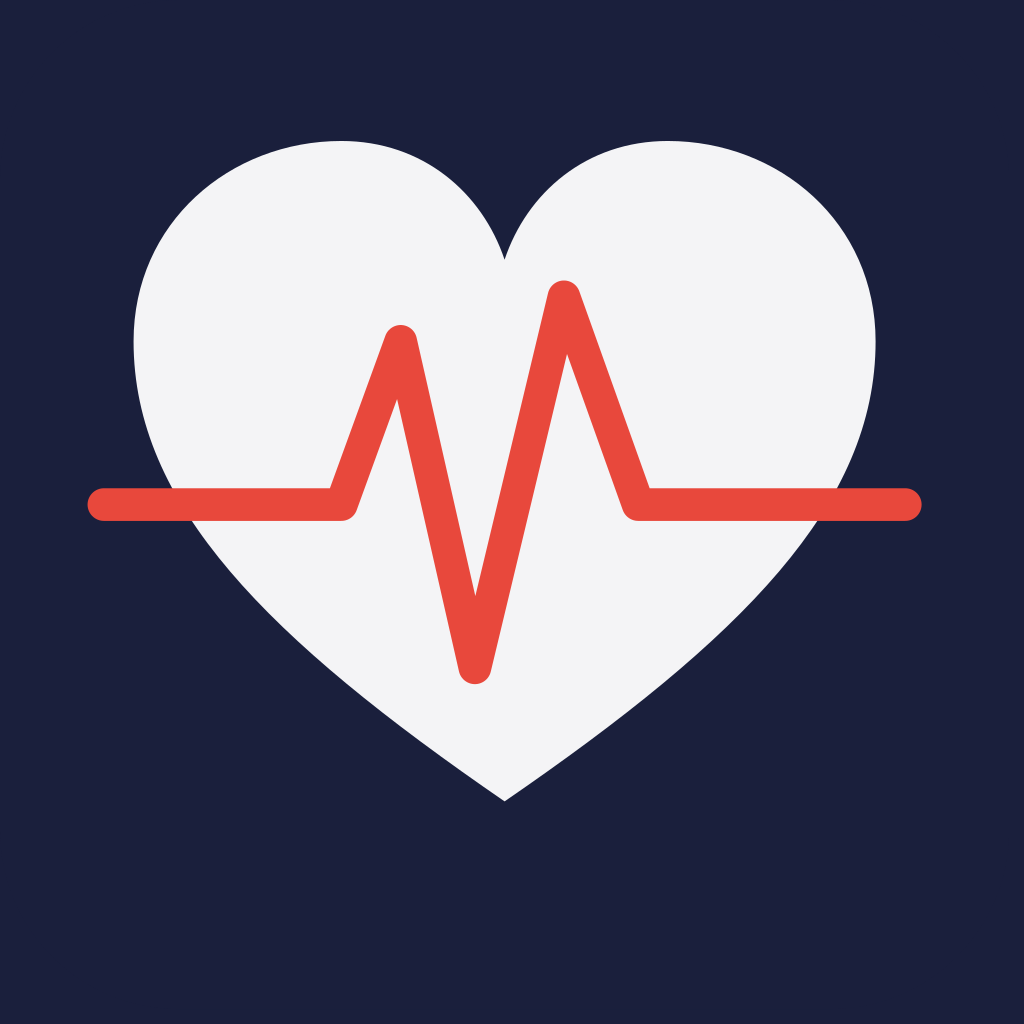
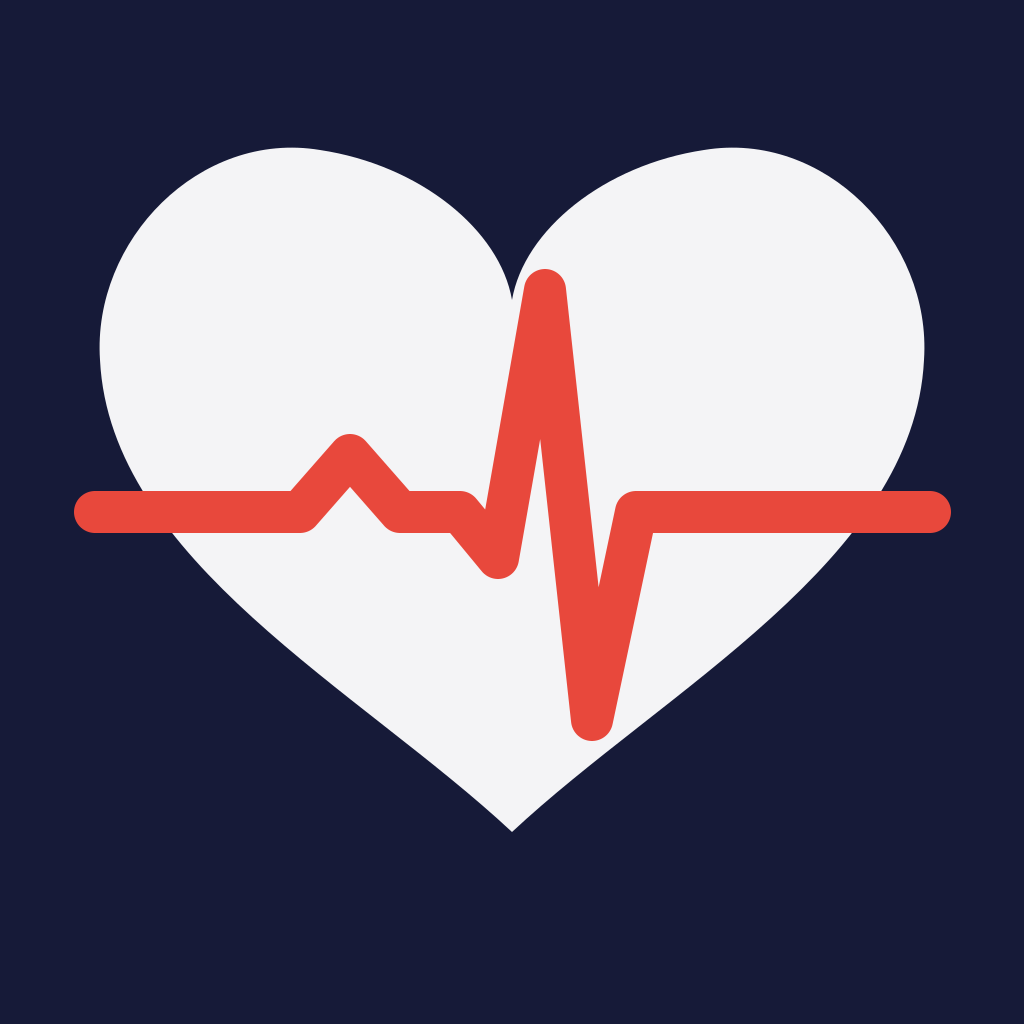
fix bug - when restart without finish app, now it will show you exact time's input form

diff --git a/src/hooks/useMonthNav.ts b/src/hooks/useMonthNav.ts
@@ -1,11 +1,30 @@
-import { useState } from 'react';
+import { useState, useCallback } from 'react';
+import { AppState } from 'react-native';
+import { useFocusEffect } from '@react-navigation/native';
 
 // 月送りナビゲーション（一覧画面・グラフ画面で共通）。
 // 当月より未来へは進めない。
 export function useMonthNav() {
-  const now = new Date();
-  const [year, setYear] = useState(now.getFullYear());
-  const [month, setMonth] = useState(now.getMonth() + 1);
+  const [now, setNow] = useState(() => new Date());
+  const [year, setYear] = useState(() => now.getFullYear());
+  const [month, setMonth] = useState(() => now.getMonth() + 1);
+
+  // アプリを終了せず放置すると、now / year / month が起動時の値で固定される。
+  // フォアグラウンド復帰時（画面ロック解除など）に「今」へ戻し、当月を初期表示する。
+  // タブ切り替えでは発火しないため、セッション中の月送り操作は維持される。
+  useFocusEffect(
+    useCallback(() => {
+      const sub = AppState.addEventListener('change', (state) => {
+        if (state === 'active') {
+          const n = new Date();
+          setNow(n);
+          setYear(n.getFullYear());
+          setMonth(n.getMonth() + 1);
+        }
+      });
+      return () => sub.remove();
+    }, [])
+  );
 
   function prevMonth() {
     if (month === 1) {
@@ -29,5 +48,5 @@ export function useMonthNav() {
   const canGoNext =
     year < now.getFullYear() || (year === now.getFullYear() && month < now.getMonth() + 1);
 
-  return { year, month, prevMonth, nextMonth, canGoNext };
+  return { now, year, month, prevMonth, nextMonth, canGoNext };
 }

diff --git a/screens/InputScreen.tsx b/screens/InputScreen.tsx
@@ -1,6 +1,7 @@
-import React, { useState } from 'react';
-import { View, Text, TouchableOpacity, StyleSheet } from 'react-native';
+import React, { useState, useCallback } from 'react';
+import { View, Text, TouchableOpacity, StyleSheet, AppState } from 'react-native';
 import { useSafeAreaInsets } from 'react-native-safe-area-context';
+import { useFocusEffect } from '@react-navigation/native';
 import { useMeasurements } from '../src/context/MeasurementContext';
 import { useLocale } from '../src/context/LocaleContext';
 import InfoModal from '../src/components/InfoModal';
@@ -19,7 +20,20 @@ export default function InputScreen() {
   const detectDoubleTap = useDoubleTap();
   const insets = useSafeAreaInsets();
 
-  const now = new Date();
+  const [now, setNow] = useState(() => new Date());
+
+  // アプリを終了せず放置した場合、now は起動時の値で固定されてしまう。
+  // フォーカス復帰時とフォアグラウンド復帰時に再計算し、日付・時間帯を最新化する。
+  useFocusEffect(
+    useCallback(() => {
+      setNow(new Date());
+      const sub = AppState.addEventListener('change', (state) => {
+        if (state === 'active') setNow(new Date());
+      });
+      return () => sub.remove();
+    }, [])
+  );
+
   const todayStr = toDateString(now);
   const currentPeriod: Period = getPeriod(toTimeString(now));
 

diff --git a/screens/GraphScreen.tsx b/screens/GraphScreen.tsx
@@ -52,8 +52,7 @@ export default function GraphScreen() {
   const { measurements } = useMeasurements();
   const { locale, t } = useLocale();
   const insets = useSafeAreaInsets();
-  const now = new Date();
-  const { year, month, prevMonth, nextMonth, canGoNext } = useMonthNav();
+  const { now, year, month, prevMonth, nextMonth, canGoNext } = useMonthNav();
   const [goals, setGoals] = useState<Goals>(DEFAULT_GOALS);
   const [dialogVisible, setDialogVisible] = useState(false);
   const [dialogInitialField, setDialogInitialField] = useState<GoalField>('systolic');
@@ -129,7 +128,7 @@ export default function GraphScreen() {
     setTimeout(() => {
       hScrollRef.current?.scrollTo({ x: scrollX, animated: false });
     }, 0);
-  }, [chartAreaHeight, ym, monthly.length]);
+  }, [chartAreaHeight, ym, monthly.length, now]);
 
   function openDialog(field: GoalField) {
     if (!detectDoubleTap(`goal-${field}`)) return;

diff --git a/screens/MonthlyScreen.tsx b/screens/MonthlyScreen.tsx
@@ -15,8 +15,7 @@ export default function MonthlyScreen() {
   const { measurements } = useMeasurements();
   const { locale, t } = useLocale();
   const insets = useSafeAreaInsets();
-  const now = new Date();
-  const { year, month, prevMonth, nextMonth, canGoNext } = useMonthNav();
+  const { now, year, month, prevMonth, nextMonth, canGoNext } = useMonthNav();
   const [dialogVisible, setDialogVisible] = useState(false);
   const [dialogTarget, setDialogTarget] = useState<{ date: string; period: Period } | null>(null);
   const [dialogInitial, setDialogInitial] = useState<{ systolic: number; diastolic: number; pulse: number } | undefined>();
@@ -35,7 +34,7 @@ export default function MonthlyScreen() {
       }, 150);
       return () => clearTimeout(timer);
     }
-  }, [year, month]);
+  }, [year, month, now]);
 
   const dates = getMonthDates(year, month);
   const rows = dates.map((date) => ({
